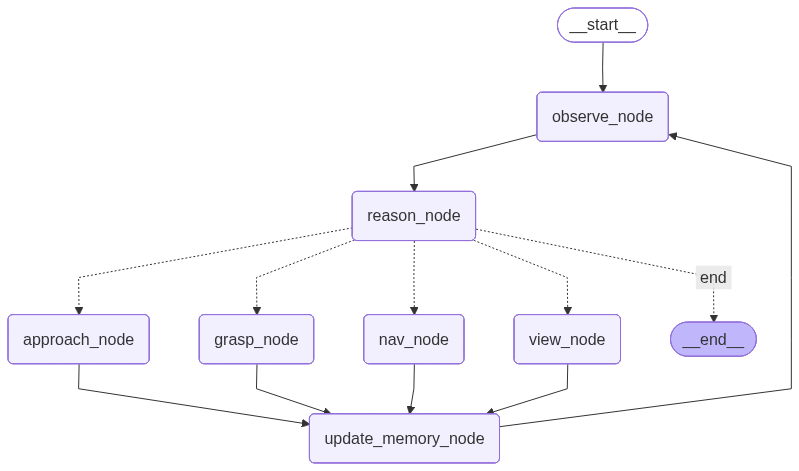
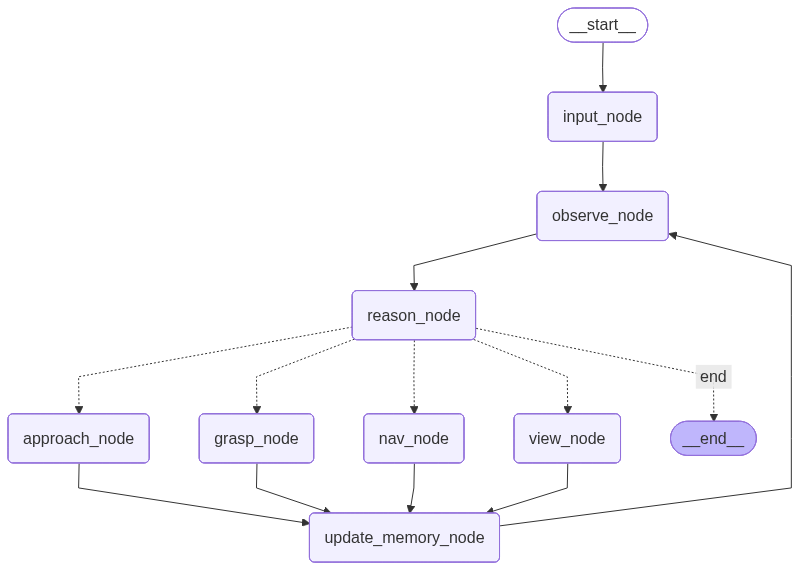
feat: add input_node (human-in-the-loop) before observe_node
- input_node waits for human task description at graph start
- Skips stdin if task_description already pre-filled (for tests)
- Passes task_description into observe_node context
- Add task_description field to CommanderState
- Update draw_graph.py and docs/langgraph_flow.png

diff --git a/commander/orchestrator.py b/commander/orchestrator.py
@@ -43,6 +43,7 @@ class Orchestrator:
         workflow = StateGraph(CommanderState)
 
         # Core nodes
+        workflow.add_node("input_node", self._input_node)
         workflow.add_node("observe_node", self._observe_node)
         workflow.add_node("reason_node", self._reason_node)
         workflow.add_node("update_memory_node", self._update_memory_node)
@@ -53,10 +54,11 @@ class Orchestrator:
         workflow.add_node("approach_node", self._approach_node)
         workflow.add_node("view_node", self._view_node)
 
-        # Entry point
-        workflow.set_entry_point("observe_node")
+        # Entry point: wait for human input first
+        workflow.set_entry_point("input_node")
 
         # Fixed edges
+        workflow.add_edge("input_node", "observe_node")
         workflow.add_edge("observe_node", "reason_node")
         workflow.add_edge("nav_node", "update_memory_node")
         workflow.add_edge("grasp_node", "update_memory_node")
@@ -80,22 +82,60 @@ class Orchestrator:
         return workflow.compile()
 
     # ------------------------------------------------------------------
+    # Node: human input (runs ONCE at graph start)
+    # ------------------------------------------------------------------
+
+    async def _input_node(self, state: CommanderState) -> Dict[str, Any]:
+        """
+        Block and wait for a human task description from stdin.
+        If task_description is already set (e.g. injected by tests), skip stdin.
+        """
+        # Allow tests or programmatic callers to pre-fill task_description
+        existing = state.get("task_description", "").strip()
+        if existing:
+            logger.info(f"[input_node] Task pre-filled: {existing}")
+            return {"task_description": existing, "current_status": "INPUT_RECEIVED"}
+
+        loop = asyncio.get_event_loop()
+
+        print("\n" + "=" * 60)
+        print("  VLM-RL 多代理人抓取系統")
+        print("=" * 60)
+        task_desc = await loop.run_in_executor(
+            None,
+            lambda: input("\n請輸入任務指令（例如：抓取桌上的紅色杯子）：\n> "),
+        )
+
+        task_desc = task_desc.strip() or "請抓取桌上的目標物件"
+        logger.info(f"[input_node] Task received: {task_desc}")
+        print(f"\n✅ 任務已確認：{task_desc}")
+        print("-" * 60)
+
+        return {
+            "task_description": task_desc,
+            "current_status": "INPUT_RECEIVED",
+        }
+
+    # ------------------------------------------------------------------
     # Node: observe
     # ------------------------------------------------------------------
 
     async def _observe_node(self, state: CommanderState) -> Dict[str, Any]:
         """Fetch current environment observation (mock or Rosbridge)."""
+        task_desc = state.get("task_description", "抓取目標物件")
+
         if self.use_mock:
             obs = {
                 "description": (
-                    f"Mock scene at step {state.get('retry_count', 0)}: "
+                    f"任務：{task_desc} "
+                    f"| Mock scene at step {state.get('retry_count', 0)}: "
                     "Target object visible on table with partial occlusion."
                 ),
                 "image_path": None,
             }
         else:
             # TODO (Day-2): subscribe to /camera/rgb/image_raw via Rosbridge WebSocket
-            obs = state.get("current_observation", {"description": "No observation"})
+            obs = state.get("current_observation", {"description": task_desc})
 
         logger.info("[observe_node] Observation captured.")
         return {"current_observation": obs, "current_status": "OBSERVED"}

diff --git a/main.py b/main.py
@@ -107,9 +107,7 @@ def main(
 async def _run(use_mock: bool, max_steps: int, log_path: str) -> None:
     """Async main loop for the LangGraph orchestration."""
     mode_label = "MOCK" if use_mock else "REAL"
-    print("=" * 60)
-    print(f"  VLM-RL Multi-Agent Grasping System  [{mode_label} MODE]")
-    print("=" * 60)
+    logger.info(f"Starting VLM-RL system [{'MOCK' if use_mock else 'REAL'} MODE]")
 
     trace_logger = TraceLogger(log_file=log_path)
     orchestrator = Orchestrator(trace_logger=trace_logger, use_mock=use_mock)
@@ -117,6 +115,7 @@ async def _run(use_mock: bool, max_steps: int, log_path: str) -> None:
     # Build initial LangGraph state
     context_id = uuid.uuid4().hex
     initial_state = {
+        "task_description": "",  # filled by input_node
         "current_observation": {"description": "System initialising..."},
         "reasoning": "",
         "call_module": "",

diff --git a/test_client.py b/test_client.py
@@ -52,6 +52,7 @@ async def test_mock_langgraph_loop() -> bool:
 
     context_id = uuid.uuid4().hex
     initial_state = {
+        "task_description": "Test: grab the red cup on the table",  # bypass input_node stdin
         "current_observation": {"description": "Test scene: red cup on white table"},
         "reasoning": "",
         "call_module": "",

diff --git a/commander/state.py b/commander/state.py
@@ -14,6 +14,9 @@ class CommanderState(TypedDict):
     Tracks the full lifecycle of an observation-reason-act cycle.
     """
 
+    # Human task description: set once at the start by the operator
+    task_description: str
+
     # Current environment observation (image data or mock description)
     current_observation: Dict[str, Any]
 
